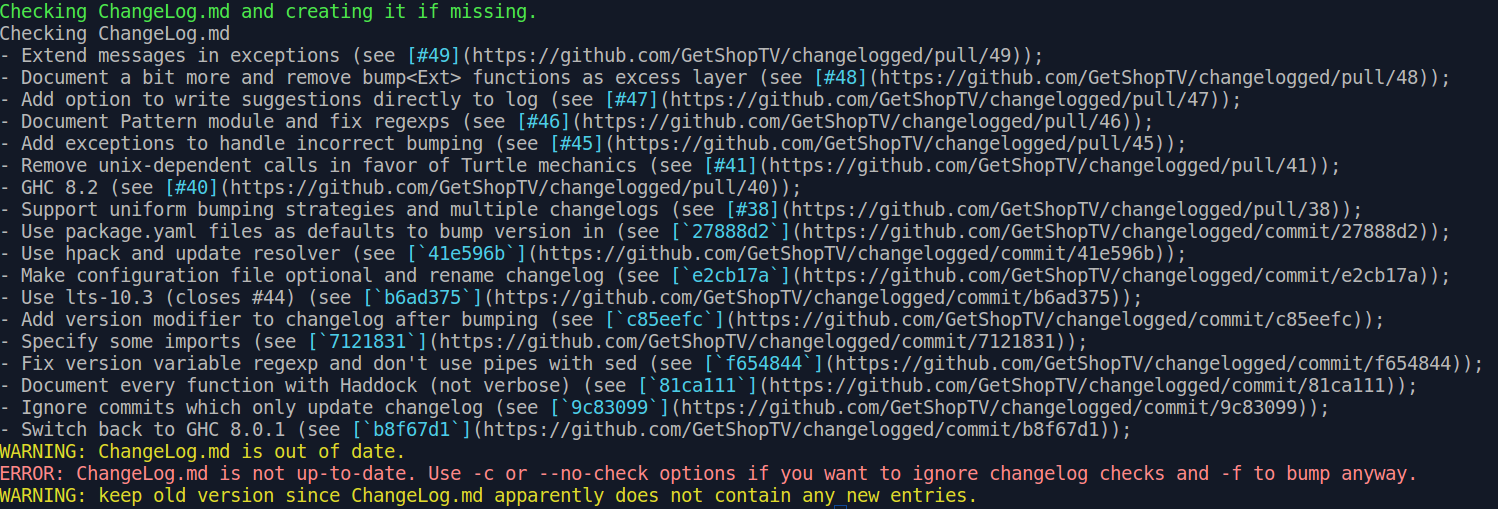
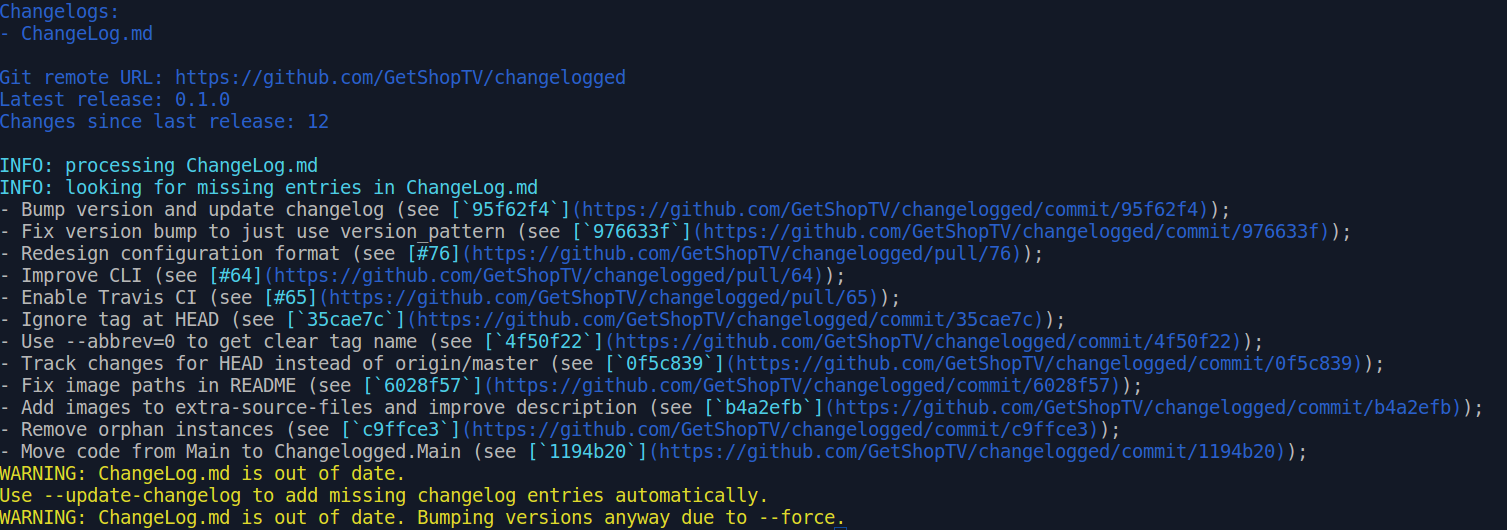
Update README and images

diff --git a/README.md b/README.md
@@ -5,6 +5,19 @@
 
 ## What and how to?
 
+### Quick start
+```
+changelogged
+
+changelogged --format suggest
+
+changelogged --update-changelog
+git diff ChangeLog.md
+sed -i '1i * Minor changes:'
+
+changelogged --bump-versions
+```
+
 ### Purpose
 This is the tool for tracking project history and release documentation.
 It guides developer through writing changelogs are bump version in project files.
@@ -12,46 +25,12 @@ With proper usage it guarantees that every pull request or commit from git histo
 It can also write changelogs based on git history and infer new version from changelog if it contains rubrication by level of changes.
 
 ### Configuration file
-[example](changelogged.yaml.skel)
-```
-changelogs:
-  main:
-    # You can simply use arrays here.
-    path: "CHANGELOG.md"
-  api:
-    path: "API_CHANGELOG.md"
-    indicator:
-      path: "file.json"
-      variable: "version"
-versioned:
-  main:
-  - path: "file.cabal"
-    variable: "version"
-  - path: "file2.cabal"
-    variable: "version"
-  - path: "file3.hs"
-    variable: "version"
-  - path: "file4.json"
-    variable: "version"
-  api:
-  - path: "file.hs"
-    variable: "apiVersion"
-  - path: "file.json"
-    variable: "version"
-```
+[example](.changelogged.template.yaml)
 
 Config is optional.
-With no config tool will try to check file named `ChangeLog.md` as far as it's part of Stack project template and bump versions in `package.yaml` files all over the project.
+With no config tool will try to check file named `ChangeLog.md` as far as it's part of Stack project template and bump versions in `package.yaml` file in root.
 
-Config (named `changelogged.yaml`) is split in two sections.
-
-`changelogs` record contains records about each changelog to track.
-Each changelog has a key - key of the record. Two keys are reserved - `main` and `api` for common project changelog and API changelog correspondingly.
-For each key there is a value. `path` is path to changelog from directory where you intent to run `changelogged`. `indicator` is optional.
-`indicator` is used e.g. for API changelogs - it's file such that changing this file is equivalent to change API. This record contains `path` to file and `variable` where version is stored.
-Current version for parts tracked by local changelogs is known from `indicator`. That's why `variable` key persists. General version of project is known from latest git tag.
-
-`versioned` section contains same key-names as `changelogs`. Each key contains array of files with `path` to file and `variable` where version is stored.
+Config (named `changelogged.yaml`) is split by changelogs. It's well commented in example. No files are ignored or watched by default.
 
 ### Features reference
 
@@ -87,30 +66,26 @@ See examples [below](#guiding-examples)
 
 #### Checking changelogs
 This is default feature. Changelogged will output all missing pull requests and commits with their messages.
-It ignores commits and pull requests affecting only `.md` files.
 
-You can skip it with `-c` option or ignore results with `-f` option. Also you can check changelog from the first commit with `-e`.
+You can skip it with `--no-check` option or ignore results with `--force` option. Also you can check changelog from the first commit with `--from-bc`.
 
 #### Bumping versions
-This is also default feature. In default way if changelogs are up to day changelogged will bump versions all over the project.
+If changelogs are up to day changelogged will bump versions all over the project with option `--bump-versions`.
 
-You can variously combine changelog checking and bumping versions. For example you may just want to be sure changelogs are up to date. There is `-C` option for that.
+You can variously combine changelog checking and bumping versions. For example you may just want to be sure changelogs are up to date. You can just run `changelogged`
 By default new version is inferred from changelog. It will work if you have some of `* App...` `* Major...`, `* Minor...`, `* Fix...`, and `* Doc...` sections in changelog and name versions correspondingly.
 Suggested versioning: `app.major.minor.fix.doc`.
-Otherwise you can specify new version explicitly with `-l` option. It's also the only way to work with `-c` option.
+Otherwise you can specify new version explicitly with `--level` option. It's also the only way to work with `--no-check` option.
+This option is subject to change significantly and is broken now.
 
 #### Multiple changelogs and subversions
-This feature requires `changelogged.yaml`.
-
-With `-m` option tool will assume there is more than one changelog and check all of them by keys from configuration file. Here is also subversioning from the box.
-Current version is known from indicator file and new version is known from changelog.
-
-You cannot explicitly set new version for arbitrary changelog but `-W` option provides special checking of API changelog. And you can set new version with `-a`.
-It's impossible to check only API changelog for now. See [issue](https://github.com/GetShopTV/changelogged/issues/54).
+If you have a lot of changelog entries in `changelogged.yaml` you get it. There is no option to set explicit subversion for any changelog. `--api-level` is already deprecated.
+Also there will be option to check changelog passed by name in commang line args if it presents in config.
 
 #### Writing changelogs.
 `--format suggest` provides another format for records you see on the screen.
-It can be used with `-y` option to write these strings to the top of changelog they are relevant to.
+It can be used with `--update-changelog` option to write these strings to the top of changelog they are relevant to.
+It's recommended to edit it manually after.
 This option cannot be used with `--format simple` which is default.
 
 ### Guiding examples:
@@ -127,32 +102,32 @@ changelogged (master):$ changelogged --format suggest
 ```
 ![image2](images/suggest.png)
 
+Try to bump with no entries in changelog:
+```
+changelogged (master):$ changelogged --format suggest --bump-versions
+```
+![image3](images/failed_bump.png)
+
 Force with no entries in changelog:
 ```
-changelogged (master):$ changelogged --format suggest -f
+changelogged (master):$ changelogged --format suggest --bump-versions --force
 ```
 ![image3](images/no_force.png)
 
-Force with explicit version:
-```
-changelogged (master):$ changelogged -f -l major
-```
-![image4](images/force.png)
-
 #### Write suggested entries to changelog (works only with `--format suggest`)
 ```
-changelogged (master):$ changelogged --format suggest -y
+changelogged (master):$ changelogged --format suggest --update-changelog
 ```
 ![image5](images/suggest.png)
 ```
 changelogged (master):$ git diff ChangeLog.md
 ```
 ![image6](images/chlog_diff.png)
-It requires some manual editing after. And it will not bump version immediately.
+It requires some manual editing after.
 
 #### Bump version infering it from changelog:
 ```
-changelogged (master):$ changelogged --format suggest -y
+changelogged (master):$ changelogged --format suggest --bump-versions
 ```
 ![image7](images/bump.png)
 ```
@@ -160,43 +135,37 @@ changelogged (master):$ git diff ChangeLog.md
 ```
 ![image8](images/release.png)
 
-Do not bump even if changelogs are up to date
+Try to bump without checking changelogs. Seems that `--force` option is always preferrable. But it waits for use cases.
 ```
-changelogged -C
+chagelogged --no-check
 ```
-![image9](images/no_bump.png)
-
-Try to bump without checking changelogs. Seems that `-f` option is always preferrable. But it waits for use cases.
-```
-chagelogged -c
-```
-![image10](images/no_check.png)
+![image9](images/no_check.png)
 
 ### Typical daily workflow to keep project and API changelogs up to date (assuming existing changelogged.yaml):
 See missing entries:
 ```
-changelogged -C --format suggest -W
+changelogged --format suggest
 ```
 Record these changes.
 ```
-changelogged --format suggest -W -y
+changelogged --format suggest --update-changelog
 ```
 And then edit changelogs manually.
 
 ### Suggested simple workflow on release (for project with no `changelogged.yaml` and API changelog):
 See missing entries:
 ```
-changelogged -C
+changelogged
 ```
 Record these changes:
 ```
-changelogged --format suggest -y
+changelogged --format suggest --update-changelog
 ```
 Manually edit changelog
 
 Bump versions:
 ```
-changelogged
+changelogged --bump-versions
 ```
 _Next part is subject to change:_
 
@@ -204,10 +173,9 @@ Commit files with bumped versions.
 
 Record commit with version bumps:
 ```
-changelogged --format suggest -y
+changelogged --format suggest --update-changelog
 ```
 Edit changelog - move new entry under version milestone.
-Note: changes in `.md` files are ignored.
 
 Commit changelog, push and release.
 
@@ -217,12 +185,13 @@ Commit changelog, push and release.
 It works with git projects only.
 It was never tested on Windows. Ideally it will work if you have Git Bash installed.
 As tool was designed for Haskell ecosystem first there are these extensions supported: `.hs`, `.cabal`, `.yaml` and `.json`. You cannot bump version in any other file.
-But new extensions can be easily provided as far as changelogged aims to have the most wide users community. See [Add new extension](#add-new-extension) section. 
+But new extensions can be easily provided as far as changelogged aims to have the most wide users community. See [Add new extension](#add-new-extension) section.
+It's subject to change - there will not be extension specific code in next version.
 
 ### Getting and building
 First of all you should go to project [Github](https://github.com/GetShopTV/changelogged)
 
-Then you can simply download it - there is a binary in `bin` directory. After execute something like `cp bin/changelogged ~/.local/bin`.
+Then you can simply download it from release. After execute something like `cp bin/changelogged ~/.local/bin`.
 
 Or you can clone repo and build it from source. You need latest [Stack](https://docs.haskellstack.org/en/stable/README/) installed.
 To build run
@@ -240,7 +209,7 @@ You are free to fork project and make a pull request.
 ### Add new extension
 You may want to use this tool inside project written not in Haskell. You are very welcome.
 
-Version bumping is restricted with extension of file. There is no euristic rules like "version is placed in `version = `" to have determined behaviour.
+Version bumping is restricted with extension of file. There is no euristic rules like "version is placed in `version = `" to have determined behaviour now.
 You may request for extension you want to be supported in [special issue](https://github.com/GetShopTV/changelogged/issues/35). It will be here ASAP.
 Or you may write it yourself.
 You are welcome to ask about how in comments in that issue (or browse comments).
